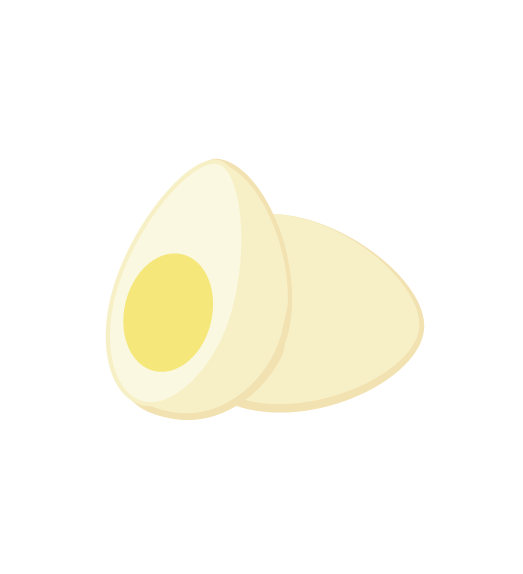
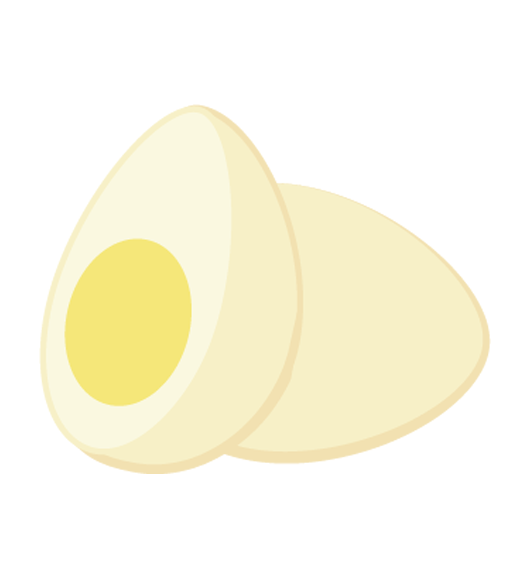
Edited JS to show images
including some minor CSS changes and changing sizes of eggs and
strawberries

Changed region(s): [[0.0612, 0.1777, 0.9484, 0.8293]]

diff --git a/minihack.js b/minihack.js
@@ -14,6 +14,8 @@ var healthy=[
 	{"food": "glasses of Orange Juice", "calories": 112}
 ]
 
+var images=["steak", "eggs", "toast", "apple", "salmon", "yogurt", "carrots", "strawberries", "bar", "oj"]
+
 //random number to generate healthy food comparison
 var randHealthy = 0;
 
@@ -96,7 +98,7 @@ function showSearchResults(response) {
 		resultHTML += "'"+phrase + "' has 0 results in the database. Please try again. "
 	}
 	else{
-		resultHTML += "<p><b>Select an option below</b></p>";
+		resultHTML += "<p><b>Select an option below for '"+phrase+"':</b></p>";
 		$.each(response.hits, function(key, value){
 			var item = value.fields;
 			var button = "<button type='button' class='foodChoice'";
@@ -162,12 +164,13 @@ function loadComparison(conversions, ind){
 	food_comparison = conversions[ind];
 	// question = "How many "+food_name+" have the same calories as one "+searchItem+"?";
 	question = "One " + searchItem + " is equivalent to eating <br>" + food_comparison + " " +food_name +".";
+	image = "<img src='images/"+images[ind]+".png' height='50%'>";
 	healthyfood = "One " + food_name + " is " + food_calories + " calories.";
 	// console.log("conversions2: "+conversions);
 	button = "<button onclick='loadComparison(["+conversions+"], "+(ind+1)%healthy.length+")'>Show me another comparison!</button>";
 	// console.log("conversions3: "+conversions);
 
-	resultHTML += question+"<br><br>"+healthyfood+"<br><br>"+button;
+	resultHTML += question+"<br><br>"+image+"<br><br>"+healthyfood+"<br><br>"+button;
 
 	$("#comparison").html(resultHTML);
 

diff --git a/minihack.html b/minihack.html
@@ -3,7 +3,9 @@
 	<title>F2F</title>
 	<meta http-equiv="Content-Type" content="text/html; charset=UTF-8">
 	<link rel="stylesheet" href="minihack.css">
-	<link href='http://fonts.googleapis.com/css?family=Montserrat' rel='stylesheet' type='text/css'>
+	<!-- <link href='http://fonts.googleapis.com/css?family=Montserrat' rel='stylesheet' type='text/css'> -->
+	<link href='http://fonts.googleapis.com/css?family=Open+Sans' rel='stylesheet' type='text/css'>
+	<link href='http://fonts.googleapis.com/css?family=Oswald' rel='stylesheet' type='text/css'>
 	<script type='text/javascript' src='jquery-1.9.0.min.js'></script>
 	<script type='text/javascript' src='minihack.js'></script>
 	
@@ -15,7 +17,7 @@
 	<div id="part1" class="container1">
 		<p>Is what you're eating actually good for you?</p>
 		<form onsubmit="return false;" href="#part2" id="form1">
-			<input id="phraseEntry1" type="text" value="Enter a food"/>
+			<input id="phraseEntry1" type="text" placeholder="Enter a food"/>
 			<input id="button1"  type="submit" value="Search" />
 		</form>
 		<div id="error"></div>
@@ -25,7 +27,7 @@
 	<div id="part2" style="display:none" class="container">
 		<div class="content">
 			<form onsubmit="return false;" id="form2">
-				<input id="phraseEntry2" type="text" value=""/>
+				<input id="phraseEntry2" type="text" placeholder="Enter a food"/>
 				<input id="button2" type="submit" value="Search" />
 			</form>
 			<div id="choices"></div> 

diff --git a/minihack.css b/minihack.css
@@ -1,9 +1,13 @@
 
 body{
 	background: #86C560;
-	font-family: 'Montserrat', sans-serif;
+	font-family: 'Open Sans', sans-serif;
 	padding: 0px;
 	margin: 0%;
+}
+
+#part1 p{
+	font-size: 35px;
 }
 
 #line{
@@ -12,13 +16,13 @@ body{
 }
 
 #banner{
-	padding:0.5%;
+	padding:0.1%;
 	background: #fff;
 }
 
 #banner h1{
-	font-family: 'Impact';
-    font-size: 200%;
+	font-family: 'Oswald', sans-serif;
+    font-size: 40px;
     text-align: center;
 }
 
@@ -32,7 +36,7 @@ a:visited{
 }
 
 a:hover{
-	color: blue;
+	/*color: blue;*/
 }
 
 .container{
